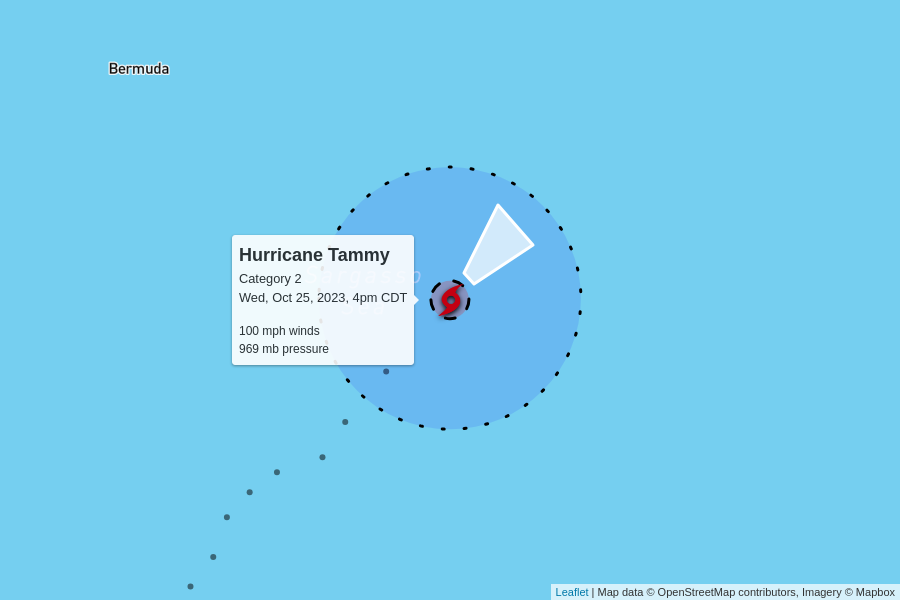
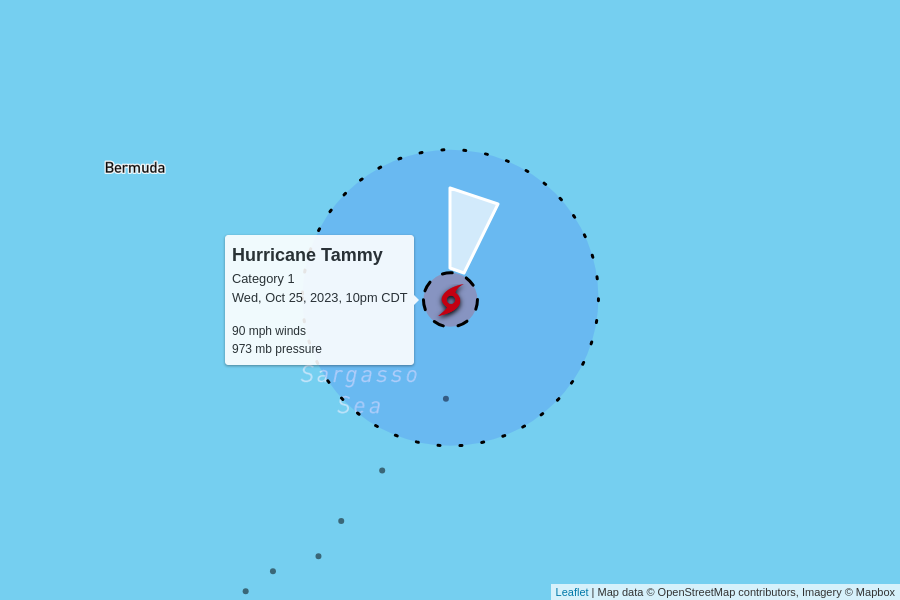
automatic update

diff --git a/docs/index.html b/docs/index.html
@@ -99,10 +99,10 @@
 
     <table>
       <tr>
-        <td colspan="6" class="storm category-2" >
+        <td colspan="6" class="storm category-1" >
           <h2>
-            Hurricane Tammy - Category 2
-            <p class="updated">last updated <span data-time>2023-10-25T21:00:00.000Z</span></p>
+            Hurricane Tammy - Category 1
+            <p class="updated">last updated <span data-time>2023-10-26T03:00:00.000Z</span></p>
           </h2>
         </td>
       </tr>
@@ -117,12 +117,12 @@
       </tr>
       <tr>
         <td class="spacer"></td>
-        <td>100 mph<br>-5 mph since last update</td>
-        <td>969 mb<br>+4 mb since last update</td>
+        <td>90 mph<br>-10 mph since last update</td>
+        <td>973 mb<br>+4 mb since last update</td>
         <td>
-          14 mph to the northeast
+          20 mph to the north-northeast
           <br/>
-          <span style="display: inline-block; font-size: 1.5em; transform: rotate(45deg);">↑</span>
+          <span style="display: inline-block; font-size: 1.5em; transform: rotate(15deg);">↑</span>
         </td>
         <td><a href="https://raw.githubusercontent.com/mgwalker/atlantic-hurricanes/main/data/csv/AL202023.csv">AL202023.csv</a></td>
         <td><a href="https://www.nhc.noaa.gov/archive/2023/TAMMY.shtml?">NHC advisories</a></td>
